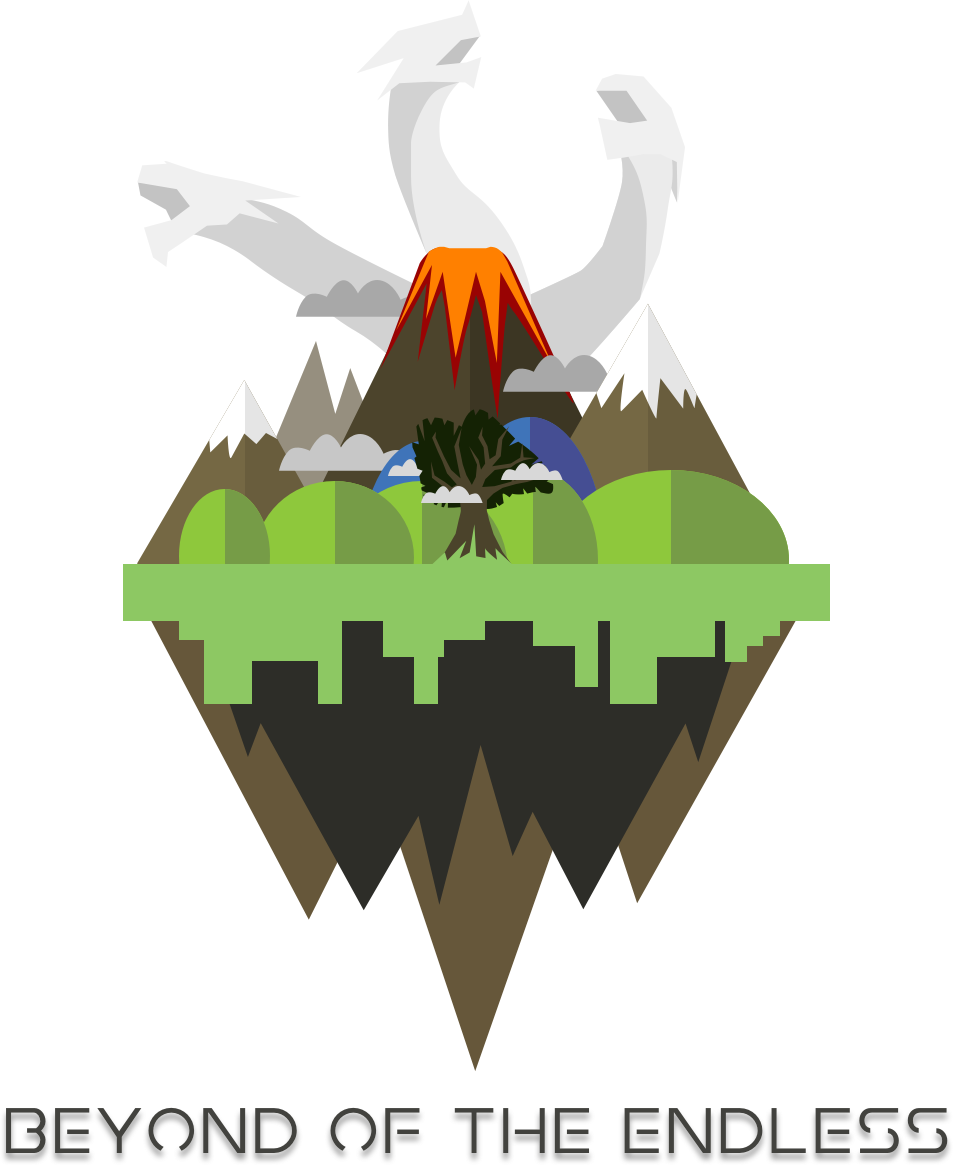
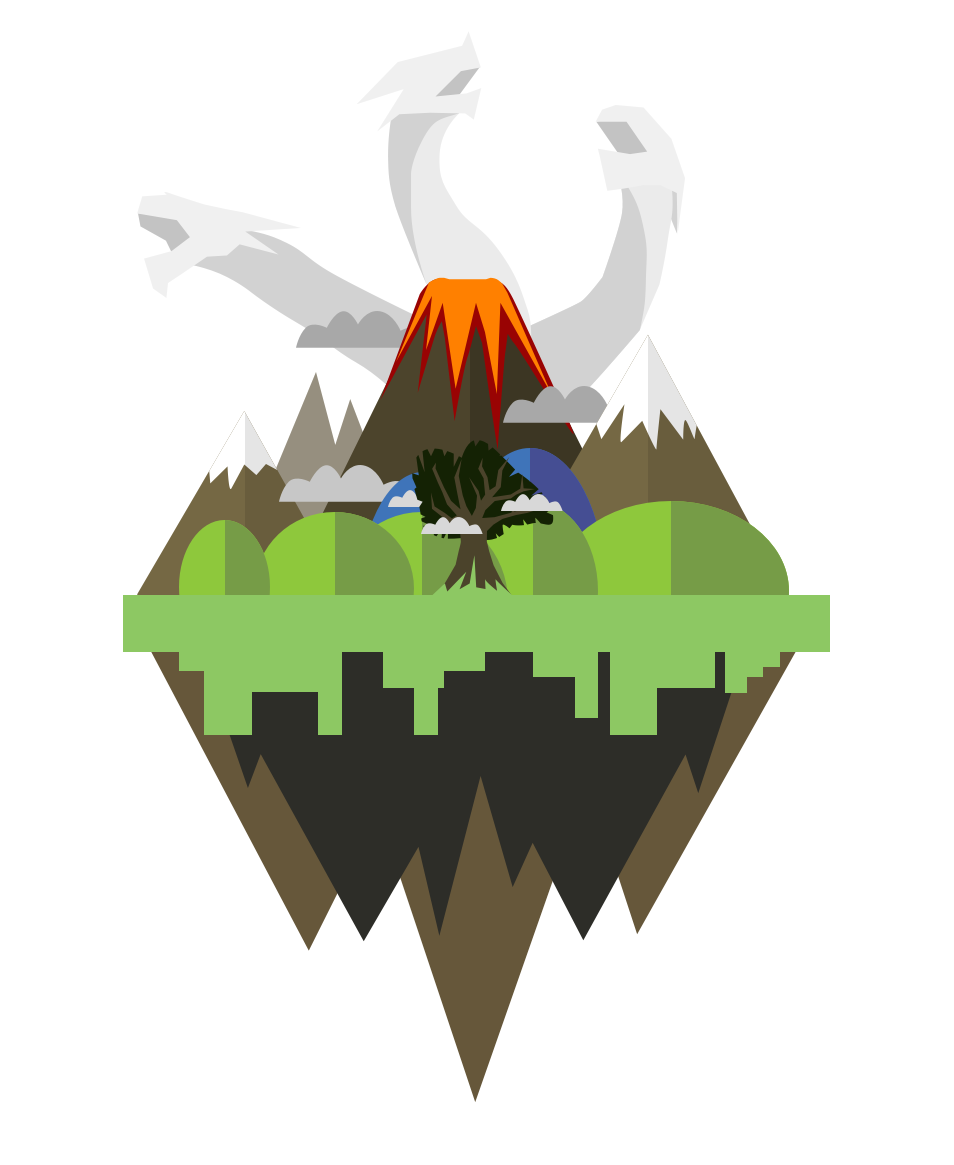
game

Changed region(s): [[0.1216, 0.0618, 1.0, 1.0], [0.0, 0.927, 0.456, 1.0], [0.3952, 0.0309, 0.5168, 0.1854]]

diff --git a/src/assets/stylesheets/app.css b/src/assets/stylesheets/app.css
@@ -52,6 +52,11 @@ table {
   src: url("../fonts/Muli-Light.ttf");
   font-weight: 400; }
 
+@font-face {
+  font-family: 'Beyond';
+  src: url("../fonts/Beyond.ttf");
+  font-weight: 400; }
+
 body {
   background: url("../images/general-bg.jpg") no-repeat;
   background-attachment: fixed;
@@ -151,13 +156,11 @@ main {
       text-transform: uppercase; }
 
 .notices,
-.game,
 .team {
   background-color: #fff;
   font-family: 'Muli';
   padding: 24px 5%; }
   .notices h2,
-  .game h2,
   .team h2 {
     margin: 12px 0 12px;
     text-align: center;
@@ -165,7 +168,6 @@ main {
     font-weight: bold;
     text-transform: uppercase; }
   .notices h3,
-  .game h3,
   .team h3 {
     margin: 12px 0 24px;
     text-align: center;
@@ -193,9 +195,38 @@ main {
     .notices-articles article p {
       font-weight: 300; }
 
-.game-call {
-  background: url("../images/BotE.png") no-repeat;
-  background-attachment: fixed;
-  background-position: 50% 66px;
-  background-size: 40%;
-  height: 100vh; }
+.game {
+  padding: 0; }
+  .game-call {
+    height: 100vh;
+    align-items: flex-end;
+    background: url("../images/BotE.png"), #ffffff;
+    background: url("../images/BotE.png"), -moz-linear-gradient(-45deg, #ffffff 0%, #3f5338 100%);
+    background: url("../images/BotE.png"), -webkit-linear-gradient(-45deg, #ffffff 0%, #3f5338 100%);
+    background: url("../images/BotE.png"), linear-gradient(135deg, #ffffff 0%, #3f5338 100%);
+    background-repeat: no-repeat;
+    background-position: center;
+    background-size: contain; }
+    .game-call h2 {
+      color: #8dc863;
+      margin: 38% 5% 0 0;
+      text-align: right;
+      font-family: 'Beyond';
+      font-size: 36px;
+      text-shadow: 0 0 26px #24CAFB; }
+    .game-call button {
+      width: fit-content;
+      margin: 16px 5% 0 0;
+      background-color: #739d58;
+      color: #fff;
+      border: 1px solid #66573a;
+      border-radius: 4px;
+      cursor: pointer;
+      padding: 12px 16px;
+      font-size: 16px;
+      text-transform: uppercase; }
+      .game-call button:hover {
+        opacity: 0.75; }
+      .game-call button:active {
+        background-color: #fff;
+        color: #739d58; }

diff --git a/src/assets/stylesheets/sass/modules/home.scss b/src/assets/stylesheets/sass/modules/home.scss
@@ -27,8 +27,7 @@
 }
 
 .notices,
-	.game,
-		.team {
+	.team {
 	background-color: #fff;
 	font-family: 'Muli';
 	padding: 24px 5%;
@@ -85,11 +84,49 @@
 
 
 .game {
+	padding: 0;
+
 	&-call {
-		background: url('../images/BotE.png') no-repeat;
-    background-attachment: fixed;
-    background-position: 50% 66px;
-    background-size: 40%;
     height: 100vh;
+    align-items: flex-end;
+		background: url('../images/BotE.png'), #ffffff;
+		background: url('../images/BotE.png'), -moz-linear-gradient(-45deg, #ffffff 0%, #3f5338 100%);
+		background: url('../images/BotE.png'), -webkit-linear-gradient(-45deg, #ffffff 0%,#3f5338 100%);
+		background: url('../images/BotE.png'), linear-gradient(135deg, #ffffff 0%,#3f5338 100%);		
+		background-repeat: no-repeat;
+    background-position: center;
+    background-size: contain;
+
+    h2 {
+    	 color: #8dc863;
+	    margin: 38% 5% 0 0;
+	    text-align: right;    	
+    	font-family: 'Beyond';
+	    font-size: 36px;
+	    text-shadow: 0 0 26px #24CAFB;    	
+    }
+
+    button {
+	    width: fit-content;
+	    margin: 16px 5% 0 0;
+	    background-color: rgb(115, 157, 88);
+	    color: #fff;
+	    border: 1px solid #66573a;
+	    border-radius: 4px;
+	    cursor: pointer;
+	    padding: 12px 16px;
+	    font-size: 16px;
+	    text-transform: uppercase;
+
+	    &:hover {
+	    	opacity: 0.75;
+	    }
+
+	    &:active {
+		    background-color: #fff;
+		    color: rgb(115, 157, 88);    	
+	    }
+			
+    }
 	}
 }

diff --git a/src/index.html b/src/index.html
@@ -69,9 +69,9 @@
 		</section><!-- /notices -->
 
 		<section id="game" class="game">
-			<section id="game-call" class="game game-call">
+			<section id="game-call" class="game game-call col">
 				<h2>Beyond of the Endless</h2>
-				<button type="">Conheça um novo mundo!</button>
+				<button>Conheça um novo mundo!</button>
 			</section>
 			<section id="game-devices" class="game game-devices">
 				<h2>Algumas Características</h2>

diff --git a/src/assets/stylesheets/sass/fonts.scss b/src/assets/stylesheets/sass/fonts.scss
@@ -26,3 +26,9 @@
 	src:url('../fonts/Muli-Light.ttf');
 	font-weight: 400;
 }
+
+@font-face {
+	font-family: 'Beyond';
+	src:url('../fonts/Beyond.ttf');
+	font-weight: 400;
+}
